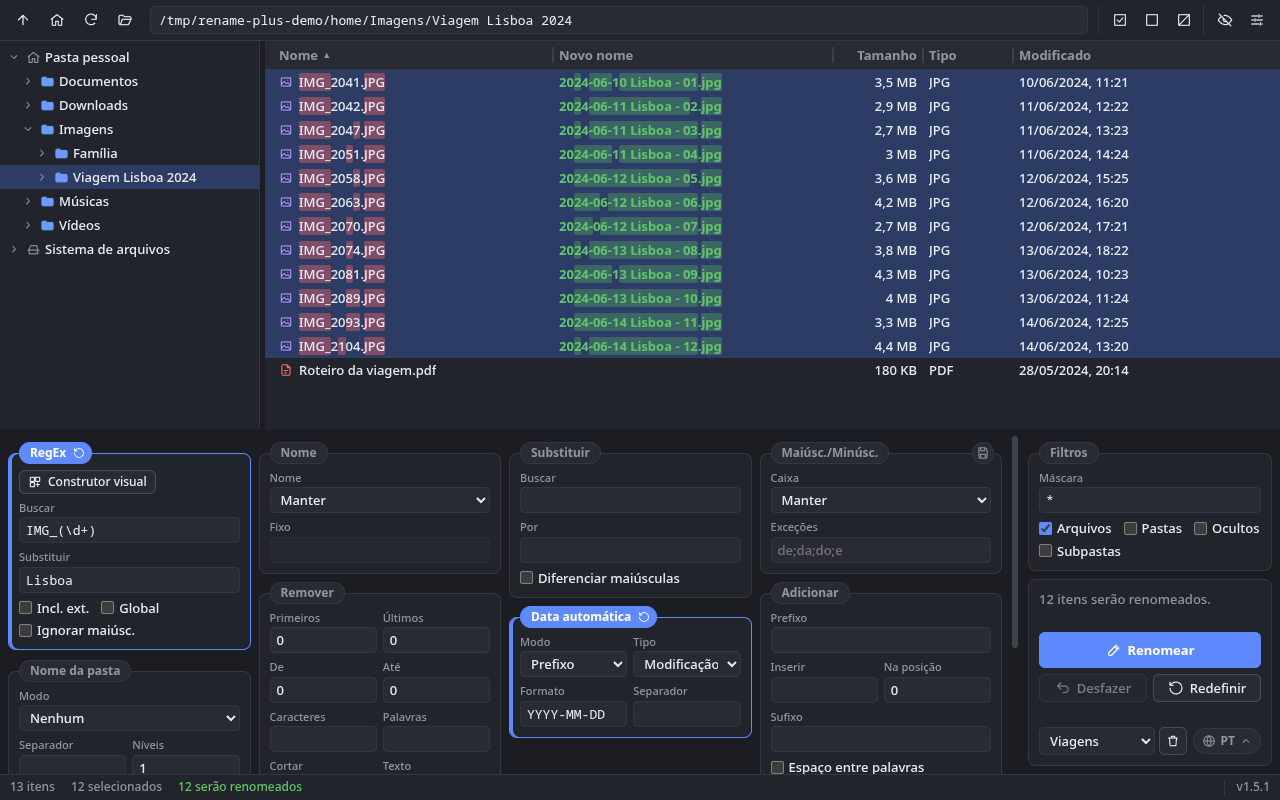
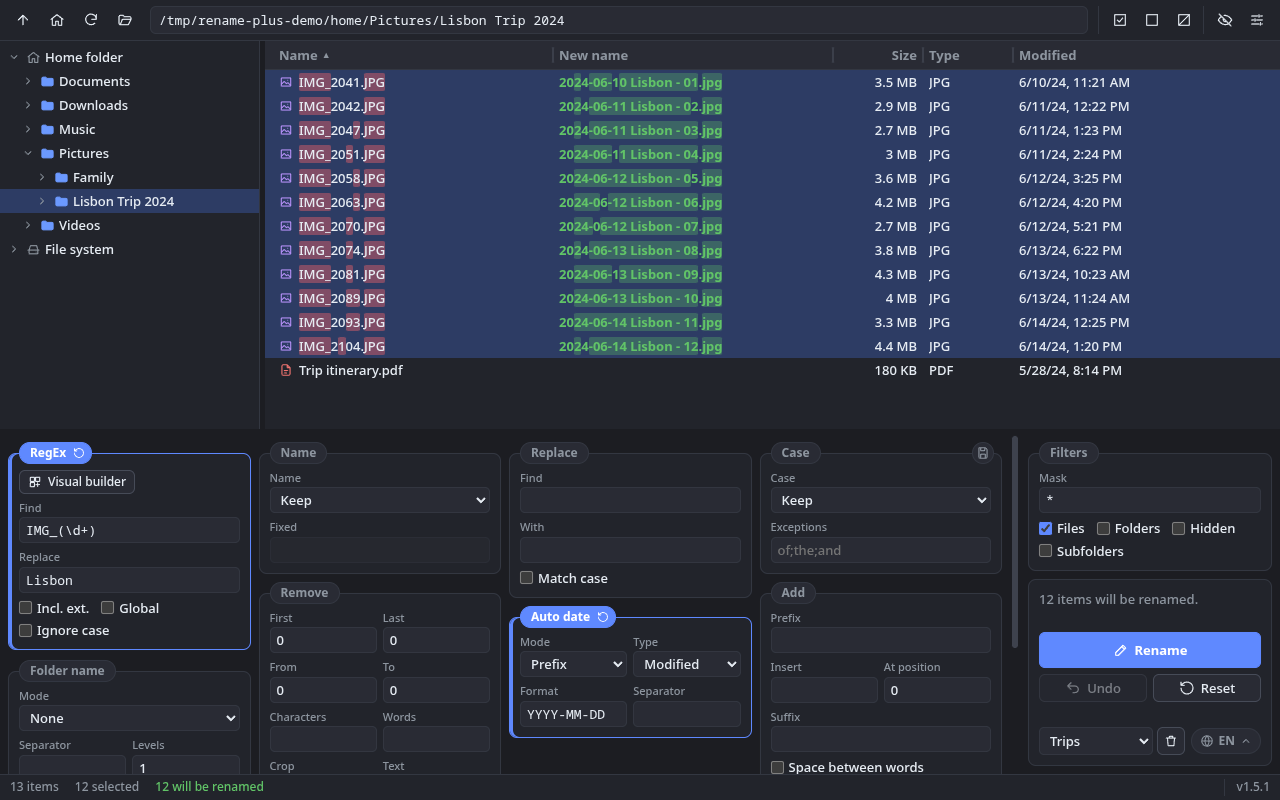
docs: prints com a interface em inglês
O README principal é em inglês, mas os prints mostravam a interface
em português.

- Todos os prints refeitos com o idioma em inglês e dados de exemplo
  com nomes em inglês (Pictures, Lisbon Trip 2024, Invoices…)
- Print de presets renomeado para presets.png
- Aviso da seção de telas, textos alternativos, legendas e o exemplo
  do print principal atualizados nos três READMEs

diff --git a/README.es-ES.md b/README.es-ES.md
@@ -55,7 +55,7 @@ La ventana tiene tres zonas: el árbol de carpetas a la izquierda, la lista de a
 
 ## Capturas
 
-Las capturas muestran la interfaz en portugués. La aplicación también está disponible en español e inglés.
+Las capturas muestran la interfaz en inglés. La aplicación también está disponible en español y portugués.
 
 <table>
   <tr>
@@ -64,7 +64,7 @@ Las capturas muestran la interfaz en portugués. La aplicación también está d
       <p><b>Varias reglas y subcarpetas.</b> Quitar, Reemplazar, Título, Numeración por carpeta y extensión en minúsculas, aplicados a las pistas de dos CD a la vez (tema claro).</p>
     </td>
     <td width="50%" valign="top">
-      <a href="docs/screenshots/conflitos.png"><img src="docs/screenshots/conflitos.png" alt="Filas en rojo con el nuevo nombre 'foto.jpg' repetido; la barra de estado muestra 4 conflictos y el botón Renombrar está bloqueado"></a>
+      <a href="docs/screenshots/conflitos.png"><img src="docs/screenshots/conflitos.png" alt="Filas en rojo con el nuevo nombre 'photo.jpg' repetido; la barra de estado muestra 4 conflictos y el botón Renombrar está bloqueado"></a>
       <p><b>Conflictos.</b> Los nombres repetidos en el lote o iguales a un archivo que ya existe se marcan en rojo y el botón Renombrar se bloquea. El motivo aparece al pasar el ratón sobre la fila.</p>
     </td>
   </tr>
@@ -94,8 +94,8 @@ Las capturas muestran la interfaz en portugués. La aplicación también está d
       <p><b>Constructor visual de RegEx.</b> La búsqueda y el reemplazo se arman con bloques que se arrastran, con ejemplos listos. Aquí, <code>IMG_2041.JPG</code> pasa a <code>Foto 2041.JPG</code>.</p>
     </td>
     <td width="50%" valign="top">
-      <a href="docs/screenshots/pastas-monitoradas.png"><img src="docs/screenshots/pastas-monitoradas.png" alt="Carpetas vigiladas: segundo plano activado y la regla 'Faturas' vigilando los PDF de la carpeta Downloads, con las reglas de renombrado tomadas del preset 'Faturas'"></a>
-      <p><b>Carpetas vigiladas.</b> Los PDF que llegan a Downloads reciben la fecha delante, pasan a Título y van a <code>Documentos/Faturas</code>, incluso con la aplicación cerrada (segundo plano activado).</p>
+      <a href="docs/screenshots/pastas-monitoradas.png"><img src="docs/screenshots/pastas-monitoradas.png" alt="Carpetas vigiladas: segundo plano activado y la regla 'Invoices' vigilando los PDF de la carpeta Downloads, con las reglas de renombrado tomadas del preset 'Invoices'"></a>
+      <p><b>Carpetas vigiladas.</b> Los PDF que llegan a Downloads reciben la fecha delante, pasan a Título y van a <code>Documents/Invoices</code>, incluso con la aplicación cerrada (segundo plano activado).</p>
     </td>
   </tr>
   <tr>
@@ -104,7 +104,7 @@ Las capturas muestran la interfaz en portugués. La aplicación también está d
       <p><b>Prueba y actividad.</b> Prueba la regla con un nombre de ejemplo antes de que llegue ningún archivo y consulta en el registro de actividad qué se renombró (o qué falló).</p>
     </td>
     <td width="50%" valign="top">
-      <a href="docs/screenshots/seus-filtros.png"><img src="docs/screenshots/seus-filtros.png" alt="Diálogo para guardar un preset con el nombre 'Fotos de família'; detrás, las fotos de la carpeta Família con los nuevos nombres '2023-12-03 Família 01.jpg' y la lista de presets junto al selector de idioma"></a>
+      <a href="docs/screenshots/presets.png"><img src="docs/screenshots/presets.png" alt="Diálogo 'Save preset' (guardar preset) con el nombre 'Family photos'; detrás, las fotos de la carpeta Family con nuevos nombres como '2023-12-03 Family 02.jpg' y la lista de presets junto al selector de idioma"></a>
       <p><b>Presets.</b> El botón de guardar, en la esquina de los paneles, guarda la combinación actual de reglas (aquí, Nombre fijo, Fecha automática y Numeración) con un nombre. Después basta con elegirlo en la lista junto al idioma o en las reglas de las carpetas vigiladas.</p>
     </td>
   </tr>
@@ -208,7 +208,7 @@ RegEx → Nombre → Reemplazar → Mayúsc./Minúsc. → Quitar → Añadir
       → Fecha automática → Nombre de la carpeta → Numeración → Extensión
 ```
 
-Ejemplo de la captura principal (arriba): `IMG_2041.JPG` → RegEx cambia `IMG_2041` por `Lisboa` → Fecha automática añade `2024-06-10 ` → Numeración añade ` - 01` → Extensión en minúsculas → **`2024-06-10 Lisboa - 01.jpg`**.
+Ejemplo de la captura principal (arriba): `IMG_2041.JPG` → RegEx cambia `IMG_2041` por `Lisbon` → Fecha automática añade `2024-06-10 ` → Numeración añade ` - 01` → Extensión en minúsculas → **`2024-06-10 Lisbon - 01.jpg`**.
 
 En las carpetas, el punto **no** se trata como separador de extensión (`v1.2` sigue siendo el nombre completo), y lo mismo ocurre con archivos ocultos como `.bashrc`.
 

diff --git a/README.pt-BR.md b/README.pt-BR.md
@@ -55,6 +55,8 @@ A interface segue o modelo de três áreas: árvore de pastas à esquerda, lista
 
 ## Telas
 
+Os prints mostram a interface em inglês. O app também está disponível em português e espanhol.
+
 <table>
   <tr>
     <td width="50%" valign="top">
@@ -62,7 +64,7 @@ A interface segue o modelo de três áreas: árvore de pastas à esquerda, lista
       <p><b>Várias regras e subpastas.</b> Remover, Substituir, Título, Numeração por pasta e extensão em minúsculas, aplicados às faixas de dois CDs de uma vez (tema claro).</p>
     </td>
     <td width="50%" valign="top">
-      <a href="docs/screenshots/conflitos.png"><img src="docs/screenshots/conflitos.png" alt="Linhas em vermelho com o novo nome 'foto.jpg' repetido; a barra de status mostra 4 conflitos e o botão Renomear está bloqueado"></a>
+      <a href="docs/screenshots/conflitos.png"><img src="docs/screenshots/conflitos.png" alt="Linhas em vermelho com o novo nome 'photo.jpg' repetido; a barra de status mostra 4 conflitos e o botão Renomear está bloqueado"></a>
       <p><b>Conflitos.</b> Nomes repetidos no lote ou iguais a um arquivo que já existe ficam em vermelho, e o botão Renomear é bloqueado. O motivo aparece ao passar o mouse sobre a linha.</p>
     </td>
   </tr>
@@ -92,8 +94,8 @@ A interface segue o modelo de três áreas: árvore de pastas à esquerda, lista
       <p><b>Construtor visual de RegEx.</b> A busca e a substituição são montadas com blocos arrastáveis, com exemplos prontos. Aqui, <code>IMG_2041.JPG</code> vira <code>Foto 2041.JPG</code>.</p>
     </td>
     <td width="50%" valign="top">
-      <a href="docs/screenshots/pastas-monitoradas.png"><img src="docs/screenshots/pastas-monitoradas.png" alt="Pastas monitoradas: segundo plano ativado e a regra 'Faturas' monitorando PDFs na pasta Downloads, com as regras de renomeação vindas de Seus Filtros"></a>
-      <p><b>Pastas monitoradas.</b> PDFs que chegam em Downloads ganham a data na frente, viram Título e vão para <code>Documentos/Faturas</code>, mesmo com o app fechado (segundo plano ativado).</p>
+      <a href="docs/screenshots/pastas-monitoradas.png"><img src="docs/screenshots/pastas-monitoradas.png" alt="Pastas monitoradas: segundo plano ativado e a regra 'Invoices' monitorando PDFs na pasta Downloads, com as regras de renomeação vindas de Seus Filtros"></a>
+      <p><b>Pastas monitoradas.</b> PDFs que chegam em Downloads ganham a data na frente, viram Título e vão para <code>Documents/Invoices</code>, mesmo com o app fechado (segundo plano ativado).</p>
     </td>
   </tr>
   <tr>
@@ -102,7 +104,7 @@ A interface segue o modelo de três áreas: árvore de pastas à esquerda, lista
       <p><b>Teste e atividade.</b> Teste a regra com um nome de exemplo antes de qualquer arquivo chegar e veja no registro de atividade o que foi renomeado (ou o que falhou).</p>
     </td>
     <td width="50%" valign="top">
-      <a href="docs/screenshots/seus-filtros.png"><img src="docs/screenshots/seus-filtros.png" alt="Diálogo 'Salvar em Seus Filtros' com o nome 'Fotos de família'; atrás, as fotos da pasta Família com os novos nomes '2023-12-03 Família 01.jpg' e a lista Seus Filtros ao lado do seletor de idioma"></a>
+      <a href="docs/screenshots/presets.png"><img src="docs/screenshots/presets.png" alt="Diálogo 'Save preset' (Salvar em Seus Filtros) com o nome 'Family photos'; atrás, as fotos da pasta Family com novos nomes como '2023-12-03 Family 02.jpg' e a lista Seus Filtros ao lado do seletor de idioma"></a>
       <p><b>Seus Filtros.</b> O botão de salvar, no canto dos painéis, guarda a combinação atual de regras (aqui, Nome fixo, Data automática e Numeração) com um nome. Depois é só escolher na lista ao lado do idioma ou nas regras das pastas monitoradas.</p>
     </td>
   </tr>
@@ -206,7 +208,7 @@ RegEx → Nome → Substituir → Maiúsc./Minúsc. → Remover → Adicionar
       → Data automática → Nome da pasta → Numeração → Extensão
 ```
 
-Exemplo do print principal (no topo): `IMG_2041.JPG` → RegEx troca `IMG_2041` por `Lisboa` → Data automática acrescenta `2024-06-10 ` → Numeração acrescenta ` - 01` → Extensão em minúsculas → **`2024-06-10 Lisboa - 01.jpg`**.
+Exemplo do print principal (no topo): `IMG_2041.JPG` → RegEx troca `IMG_2041` por `Lisbon` → Data automática acrescenta `2024-06-10 ` → Numeração acrescenta ` - 01` → Extensão em minúsculas → **`2024-06-10 Lisbon - 01.jpg`**.
 
 Em pastas, o ponto **não** é tratado como separador de extensão (`v1.2` continua sendo o nome inteiro), e o mesmo vale para arquivos ocultos como `.bashrc`.
 

diff --git a/README.md b/README.md
@@ -55,7 +55,7 @@ The window has three areas: the folder tree on the left, the file list on the ri
 
 ## Screenshots
 
-The screenshots show the Portuguese interface. The app is also available in English and Spanish.
+The screenshots show the English interface. The app is also available in Portuguese and Spanish.
 
 <table>
   <tr>
@@ -64,7 +64,7 @@ The screenshots show the Portuguese interface. The app is also available in Engl
       <p><b>Several rules and subfolders.</b> Remove, Replace, Title case, per-folder Numbering and a lowercase extension, applied to the tracks of two CDs at once (light theme).</p>
     </td>
     <td width="50%" valign="top">
-      <a href="docs/screenshots/conflitos.png"><img src="docs/screenshots/conflitos.png" alt="Rows in red with the new name 'foto.jpg' repeated; the status bar shows 4 conflicts and the Rename button is disabled"></a>
+      <a href="docs/screenshots/conflitos.png"><img src="docs/screenshots/conflitos.png" alt="Rows in red with the new name 'photo.jpg' repeated; the status bar shows 4 conflicts and the Rename button is disabled"></a>
       <p><b>Conflicts.</b> Names repeated in the batch, or matching a file that already exists, turn red and the Rename button is disabled. Hover over a row to see why.</p>
     </td>
   </tr>
@@ -94,8 +94,8 @@ The screenshots show the Portuguese interface. The app is also available in Engl
       <p><b>Visual RegEx builder.</b> The search and the replacement are built from drag-and-drop blocks, with ready-made examples. Here, <code>IMG_2041.JPG</code> becomes <code>Foto 2041.JPG</code>.</p>
     </td>
     <td width="50%" valign="top">
-      <a href="docs/screenshots/pastas-monitoradas.png"><img src="docs/screenshots/pastas-monitoradas.png" alt="Watch folders settings: background watching turned on and the 'Faturas' rule watching Downloads for PDF files, with the rename rules taken from the 'Faturas' preset"></a>
-      <p><b>Watch folders.</b> PDFs that land in Downloads get the date in front, Title Case and go to <code>Documentos/Faturas</code>, even with the app closed (background watching on).</p>
+      <a href="docs/screenshots/pastas-monitoradas.png"><img src="docs/screenshots/pastas-monitoradas.png" alt="Watch folders settings: background watching turned on and the 'Invoices' rule watching Downloads for PDF files, with the rename rules taken from the 'Invoices' preset"></a>
+      <p><b>Watch folders.</b> PDFs that land in Downloads get the date in front, Title Case and go to <code>Documents/Invoices</code>, even with the app closed (background watching on).</p>
     </td>
   </tr>
   <tr>
@@ -104,7 +104,7 @@ The screenshots show the Portuguese interface. The app is also available in Engl
       <p><b>Test and activity.</b> Try the rule with a sample name before any file arrives, and see what was renamed (or what failed) in the activity log.</p>
     </td>
     <td width="50%" valign="top">
-      <a href="docs/screenshots/seus-filtros.png"><img src="docs/screenshots/seus-filtros.png" alt="'Save preset' dialog with the name 'Fotos de família'; behind it, the photos in the Família folder with the new names '2023-12-03 Família 01.jpg' and the preset list next to the language selector"></a>
+      <a href="docs/screenshots/presets.png"><img src="docs/screenshots/presets.png" alt="'Save preset' dialog with the name 'Family photos'; behind it, the photos in the Family folder with new names such as '2023-12-03 Family 02.jpg' and the preset list next to the language selector"></a>
       <p><b>Presets.</b> The save button in the corner of the panels stores the current combination of rules (here, fixed Name, Auto date and Numbering) under a name. Pick it again from the list next to the language selector or in a watch folder rule.</p>
     </td>
   </tr>
@@ -208,7 +208,7 @@ RegEx → Name → Replace → Case → Remove → Add
       → Auto date → Folder name → Numbering → Extension
 ```
 
-Example from the main screenshot (at the top): `IMG_2041.JPG` → RegEx replaces `IMG_2041` with `Lisboa` → Auto date adds `2024-06-10 ` → Numbering adds ` - 01` → lowercase Extension → **`2024-06-10 Lisboa - 01.jpg`**.
+Example from the main screenshot (at the top): `IMG_2041.JPG` → RegEx replaces `IMG_2041` with `Lisbon` → Auto date adds `2024-06-10 ` → Numbering adds ` - 01` → lowercase Extension → **`2024-06-10 Lisbon - 01.jpg`**.
 
 For folders, the dot is **not** treated as an extension separator (`v1.2` stays the whole name), and the same goes for hidden files such as `.bashrc`.
 
